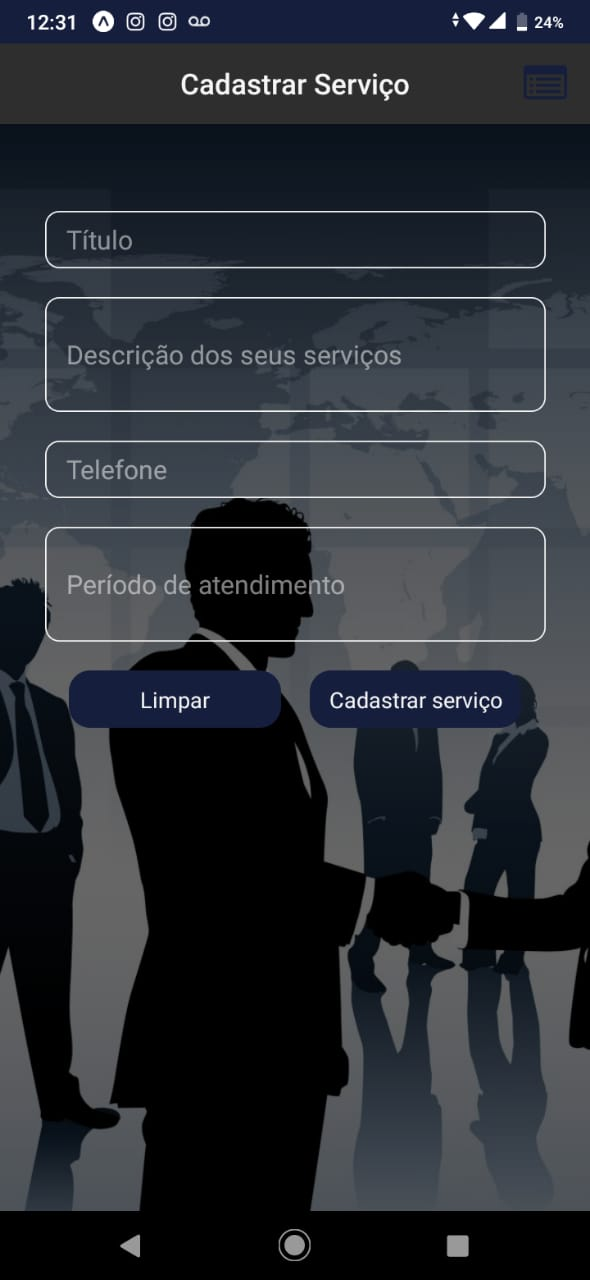
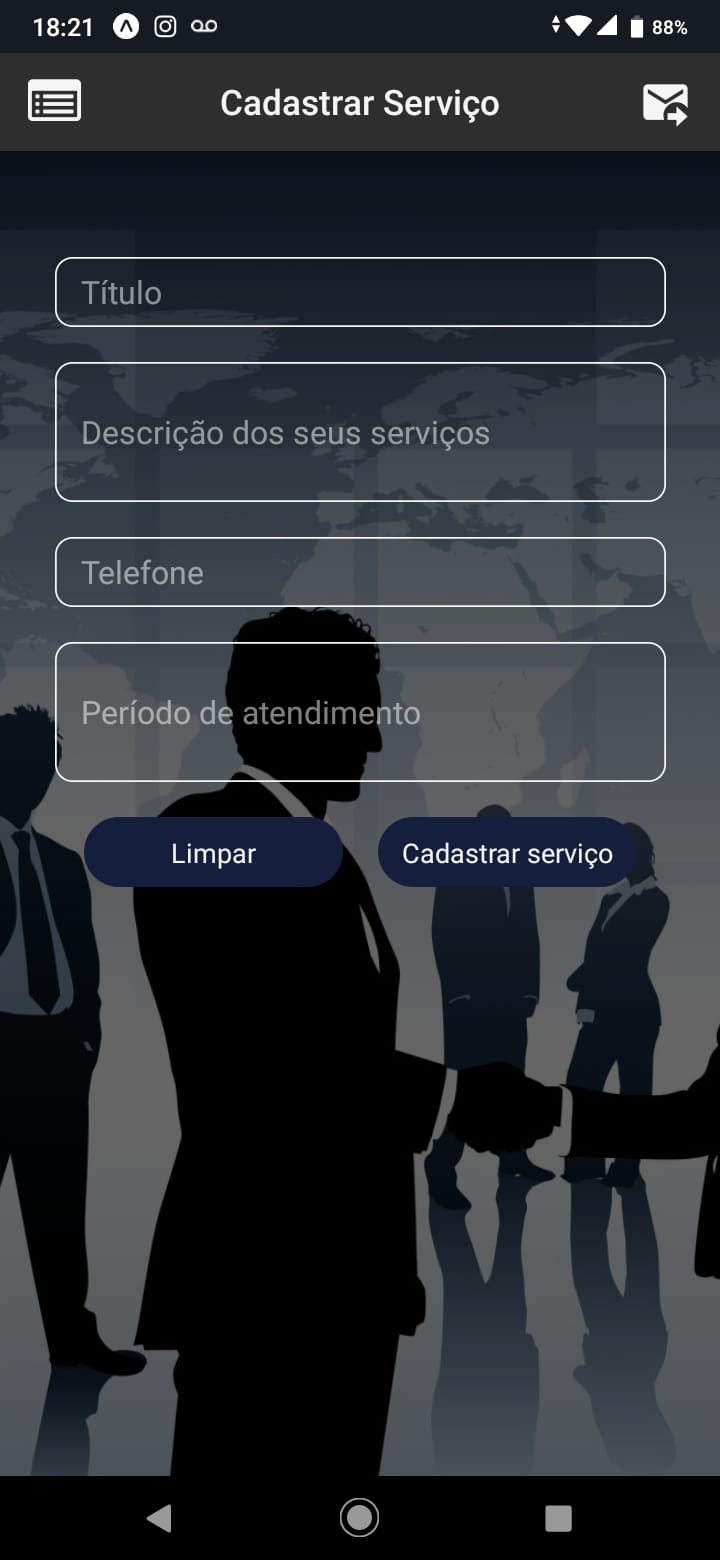
atualizações

Changed region(s): [[0.0, 0.0, 1.0, 0.0938], [0.5186, 0.5312, 0.5492, 0.5625]]

diff --git a/App.js b/App.js
@@ -24,10 +24,10 @@ export default function App(){
           <NavigationContainer>
             <StatusBar backgroundColor='#151E3D'
               barStyle='light-content'/>
+            
             <Stack.Navigator
               initialRouteName='Splash'
               screenOptions={screenOptions}>
-
             
             <Stack.Screen
                 name='Splash'
@@ -44,8 +44,7 @@ export default function App(){
                       <ContactIcon name='email-send' size={30} color='whitesmoke'/>
                     </TouchableOpacity>
                   )
-                })}/>
-              
+                })}/>              
               
               <Stack.Screen
                 name='List'

diff --git a/src/global/Context.js b/src/global/Context.js
@@ -8,11 +8,9 @@ const Context = createContext()
 
 
 export const Provider = (props)=>{
-  const [providerJob, setProviderJob] = useState([])
   const [jobs, setJobs] = useState([])
   const [job, setJob] = useState({})
   const [perfil, setPerfil] = useState({})
-  const [hiredJobs, setHiredJobs] = useState([])
 
 
 
@@ -48,7 +46,15 @@ export const Provider = (props)=>{
 
 
   
-  return<Context.Provider value={{ getAllJobs, jobs, job, setJob, getToken, getId, setPerfil }}>
+  return<Context.Provider value={{
+    getAllJobs,
+    jobs,
+    job,
+    setJob,
+    getToken,
+    getId,
+    setPerfil
+  }}>
           { props.children }
         </Context.Provider>
 }

diff --git a/src/pages/List/index.js b/src/pages/List/index.js
@@ -19,15 +19,16 @@ import {
 export default function List(props){
   const { getAllJobs, jobs, setJob } = useContext(Context)  
   const [refreshing, setRefreshing] = useState(false)
+   
+  
 
-  
-  
   useEffect(()=>{
     getAllJobs()
   }, [])
 
 
   BackHandler.addEventListener('hardwareBackPress', ()=>{
+    
     return true
   })
   
@@ -38,8 +39,8 @@ export default function List(props){
 
 
   const onRefresh = useCallback(()=>{
-    setRefreshing(true)
     getAllJobs()
+    setRefreshing(true)    
     wait(3000).then(()=> setRefreshing(false))
   }, [])
 

diff --git a/src/pages/splash/Splash.js b/src/pages/splash/Splash.js
@@ -18,11 +18,7 @@ export default function Splash(props) {
       <LottieView
         autoPlay
         speed={1}
-        source={require('../../../assets/splash.json')}
-        onAnimationFinish={()=>{
-          props.navigation.navigate('List')
-        }}
-      />
+        source={require('../../../assets/splash.json')}/>
     </View>
   );
 }

diff --git a/src/pages/Register/index.js b/src/pages/Register/index.js
@@ -15,7 +15,7 @@ import {
 
 
 export default function Register(props){
-  const { getAllJobs, getToken } = useContext(Context)
+  const { getAllJobs } = useContext(Context)
   const [title, setTitle] = useState('')
   const [description, setDescription] = useState('')
   const [phone, setPhone] = useState('')

diff --git a/src/pages/ContactUs/index.js b/src/pages/ContactUs/index.js
@@ -1,4 +1,3 @@
-import Mail from 'react-native-vector-icons/Entypo'
 import Zap from 'react-native-vector-icons/FontAwesome'
 import ContactIcon from 'react-native-vector-icons/MaterialCommunityIcons'
 import {

diff --git a/README.md b/README.md
@@ -3,8 +3,8 @@
 Aplicativo móvel para cadastramento e publicação de serviços.
 
 
- Ao acessar o aplicativo o usuário poderá ver a lista de serviços cadastrados com o nome do serviço, descrição telefone e horário de atendimento. No canto superior direito dessa mesma lista de serviços está o ícone que redireciona a página para cadastrar novos serviços. O usuário poderá ver o seu serviço cadastrado na lista logo após o registro do mesmo na página de cadastramento.
+ Ao acessar o aplicativo o usuário poderá ver a lista de serviços cadastrados com o nome do serviço, descrição telefone e horário de atendimento. No canto superior esquerdo dessa mesma lista de está o ícone que redireciona a página para cadastrar novos serviços. O usuário poderá ver o seu serviço cadastrado na lista logo após o registro do mesmo na página de cadastramento.
 
 <br><br>
-<img src='./imgREADME/cadastramento.jpeg' width='200'>
 <img src='./imgREADME/lista.jpeg' width='200'>
+<img src='./imgREADME/cadastramento.jpeg' width='200'>
